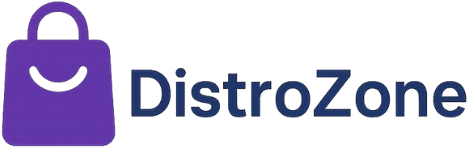
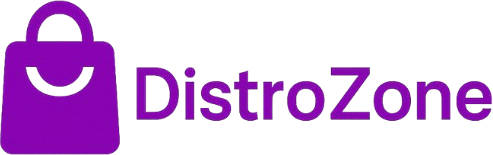
ganti warna produk page biar serasi dengan background putih

diff --git a/frontend/src/components/ui-toko/ProductCard.tsx b/frontend/src/components/ui-toko/ProductCard.tsx
@@ -30,13 +30,13 @@ const ProductCard: React.FC<{ product: Product }> = ({ product }) => {
   };
 
   return (
-    <div className="group relative bg-zinc-900 rounded-xl overflow-hidden border border-white/10 hover:border-orange-500/50 transition-all duration-300">
+    <div className="group relative bg-white rounded-xl overflow-hidden border border-gray-200 hover:border-orange-500 transition-all duration-300 shadow-sm hover:shadow-md">
       {/* Product Image */}
-      <div className="relative aspect-square bg-linear-to-br from-zinc-800 to-zinc-900 overflow-hidden">
+      <div className="relative aspect-square bg-gray-100 overflow-hidden">
         {/* Image Placeholder */}
         <div className="absolute inset-0 flex items-center justify-center">
           <div
-            className="absolute inset-0 opacity-10"
+            className="absolute inset-0 opacity-5"
             style={{
               backgroundImage: `repeating-linear-gradient(
                 45deg,
@@ -48,10 +48,10 @@ const ProductCard: React.FC<{ product: Product }> = ({ product }) => {
             }}
           />
           <div className="text-center z-10">
-            <div className="text-4xl font-black text-white/20 mb-2">
+            <div className="text-4xl font-black text-gray-300 mb-2">
               {product.nama.split(" ")[0]}
             </div>
-            <div className="text-xs text-gray-600">{product.gambar}</div>
+            <div className="text-xs text-gray-400">{product.gambar}</div>
           </div>
         </div>
 
@@ -67,7 +67,7 @@ const ProductCard: React.FC<{ product: Product }> = ({ product }) => {
         </div>
 
         {/* Product Name */}
-        <h3 className="text-white font-bold text-base mb-2 line-clamp-1">
+        <h3 className="text-gray-900 font-bold text-base mb-2 line-clamp-1">
           {product.nama}
         </h3>
 
@@ -77,7 +77,7 @@ const ProductCard: React.FC<{ product: Product }> = ({ product }) => {
             {product.colors.map((color, index) => (
               <button
                 key={index}
-                className="w-5 h-5 rounded-full border-2 border-white/20 hover:border-orange-500 transition-colors duration-200"
+                className="w-5 h-5 rounded-full border-2 border-gray-300 hover:border-orange-500 transition-colors duration-200"
                 style={{ backgroundColor: color }}
               />
             ))}
@@ -91,14 +91,14 @@ const ProductCard: React.FC<{ product: Product }> = ({ product }) => {
               {formatPrice(product.harga)}
             </div>
             {product.hargaOri && (
-              <div className="text-gray-600 text-xs line-through">
+              <div className="text-gray-400 text-xs line-through">
                 {formatPrice(product.hargaOri)}
               </div>
             )}
           </div>
 
           {product.hargaOri && (
-            <div className="bg-red-500/20 text-red-500 text-xs font-bold px-2 py-1 rounded">
+            <div className="bg-red-50 text-red-500 text-xs font-bold px-2 py-1 rounded">
               -
               {Math.round(
                 ((product.hargaOri - product.harga) / product.hargaOri) * 100
@@ -139,7 +139,7 @@ const ProductFilter: React.FC<{
     <>
       {/* Tipe */}
       <div className="mb-8">
-        <h3 className="text-white font-bold text-sm uppercase tracking-wider mb-4">
+        <h3 className="text-gray-900 font-bold text-sm uppercase tracking-wider mb-4">
           Tipe Kaos
         </h3>
         <div className="space-y-2">
@@ -152,9 +152,9 @@ const ProductFilter: React.FC<{
                 type="checkbox"
                 checked={filters.categories.includes(tipe)}
                 onChange={() => toggleTipe(tipe)}
-                className="w-5 h-5 rounded border-2 border-white/20 bg-transparent checked:bg-orange-500 checked:border-orange-500 transition-colors cursor-pointer"
+                className="w-5 h-5 rounded border-2 border-gray-300 bg-white checked:bg-orange-500 checked:border-orange-500 transition-colors cursor-pointer"
               />
-              <span className="text-gray-400 group-hover:text-white transition-colors text-sm">
+              <span className="text-gray-600 group-hover:text-gray-900 transition-colors text-sm">
                 {tipe}
               </span>
             </label>
@@ -164,7 +164,7 @@ const ProductFilter: React.FC<{
 
       {/* Price Range */}
       <div>
-        <h3 className="text-white font-bold text-sm uppercase tracking-wider mb-4">
+        <h3 className="text-gray-900 font-bold text-sm uppercase tracking-wider mb-4">
           Harga
         </h3>
         <div className="space-y-2">
@@ -180,9 +180,9 @@ const ProductFilter: React.FC<{
                 onChange={() =>
                   onFilterChange({ ...filters, priceRange: range.value })
                 }
-                className="w-5 h-5 border-2 border-white/20 bg-transparent checked:border-orange-500 transition-colors cursor-pointer"
+                className="w-5 h-5 border-2 border-gray-300 bg-white checked:border-orange-500 transition-colors cursor-pointer"
               />
-              <span className="text-gray-400 group-hover:text-white transition-colors text-sm">
+              <span className="text-gray-600 group-hover:text-gray-900 transition-colors text-sm">
                 {range.label}
               </span>
             </label>
@@ -193,7 +193,7 @@ const ProductFilter: React.FC<{
       {/* Reset Button */}
       <button
         onClick={() => onFilterChange({ categories: [], priceRange: "all" })}
-        className="mt-8 w-full bg-white/5 hover:bg-white/10 border border-white/20 text-white font-bold py-3 rounded-lg transition-colors duration-200"
+        className="mt-8 w-full bg-gray-100 hover:bg-gray-200 border border-gray-300 text-gray-900 font-bold py-3 rounded-lg transition-colors duration-200"
       >
         Reset Filter
       </button>
@@ -204,18 +204,18 @@ const ProductFilter: React.FC<{
     return (
       <div className="fixed inset-0 z-50 lg:hidden">
         <div
-          className="absolute inset-0 bg-black/80 backdrop-blur-sm"
+          className="absolute inset-0 bg-black/50 backdrop-blur-sm"
           onClick={onClose}
         />
-        <div className="absolute right-0 top-0 bottom-0 w-80 max-w-full bg-zinc-900 shadow-xl overflow-y-auto">
+        <div className="absolute right-0 top-0 bottom-0 w-80 max-w-full bg-white shadow-xl overflow-y-auto">
           <div className="p-6">
             <div className="flex items-center justify-between mb-6">
-              <h2 className="text-xl font-black text-white">FILTER</h2>
+              <h2 className="text-xl font-black text-gray-900">FILTER</h2>
               <button
                 onClick={onClose}
-                className="w-10 h-10 flex items-center justify-center hover:bg-white/10 rounded-lg transition-colors"
+                className="w-10 h-10 flex items-center justify-center hover:bg-gray-100 rounded-lg transition-colors"
               >
-                <MdClose className="w-6 h-6 text-white" />
+                <MdClose className="w-6 h-6 text-gray-900" />
               </button>
             </div>
             {FilterContent}
@@ -226,8 +226,8 @@ const ProductFilter: React.FC<{
   }
 
   return (
-    <div className="hidden lg:block bg-zinc-900 rounded-xl border border-white/10 p-6 sticky top-34">
-      <h2 className="text-xl font-black text-white mb-6">FILTER</h2>
+    <div className="hidden lg:block bg-white rounded-xl border border-gray-200 p-6 sticky top-34 shadow-sm">
+      <h2 className="text-xl font-black text-gray-900 mb-6">FILTER</h2>
       {FilterContent}
     </div>
   );
@@ -254,7 +254,7 @@ const ProductSort: React.FC<{
     <div className="relative">
       <button
         onClick={() => setIsOpen(!isOpen)}
-        className="flex items-center space-x-2 bg-zinc-900 border border-white/10 hover:border-orange-500/50 px-4 py-2.5 rounded-lg transition-colors duration-200 text-sm font-medium text-white"
+        className="flex items-center space-x-2 bg-white border border-gray-300 hover:border-orange-500 px-4 py-2.5 rounded-lg transition-colors duration-200 text-sm font-medium text-gray-900"
       >
         <span>{selectedLabel}</span>
         <FaChevronDown
@@ -270,7 +270,7 @@ const ProductSort: React.FC<{
             className="fixed inset-0 z-10"
             onClick={() => setIsOpen(false)}
           />
-          <div className="absolute right-0 mt-2 w-48 bg-zinc-900 border border-white/10 rounded-lg shadow-xl overflow-hidden z-20">
+          <div className="absolute right-0 mt-2 w-48 bg-white border border-gray-200 rounded-lg shadow-xl overflow-hidden z-20">
             {sortOptions.map((option) => (
               <button
                 key={option.value}
@@ -281,10 +281,10 @@ const ProductSort: React.FC<{
                 className={`w-full text-left px-4 py-3 text-sm transition-colors ${
                   value === option.value
                     ? "bg-orange-500 text-white"
-                    : "text-gray-400 hover:bg-white/5 hover:text-white"
+                    : "text-gray-600 hover:bg-gray-100 hover:text-gray-900"
                 }`}
               >
-                {option.label}
+                {option.value}
               </button>
             ))}
           </div>
@@ -341,7 +341,7 @@ const Pagination: React.FC<{
       <button
         onClick={() => onPageChange(currentPage - 1)}
         disabled={currentPage === 1}
-        className="w-10 h-10 flex items-center justify-center bg-zinc-900 border border-white/10 hover:border-orange-500 disabled:opacity-50 disabled:cursor-not-allowed rounded-lg transition-colors text-white"
+        className="w-10 h-10 flex items-center justify-center bg-white border border-gray-300 hover:border-orange-500 disabled:opacity-50 disabled:cursor-not-allowed rounded-lg transition-colors text-gray-900"
       >
         ‹
       </button>
@@ -354,13 +354,13 @@ const Pagination: React.FC<{
             className={`w-10 h-10 flex items-center justify-center rounded-lg font-bold text-sm transition-colors ${
               currentPage === page
                 ? "bg-orange-500 text-white"
-                : "bg-zinc-900 border border-white/10 hover:border-orange-500 text-gray-400"
+                : "bg-white border border-gray-300 hover:border-orange-500 text-gray-600"
             }`}
           >
             {page}
           </button>
         ) : (
-          <span key={index} className="text-gray-600 px-2">
+          <span key={index} className="text-gray-400 px-2">
             {page}
           </span>
         )
@@ -369,7 +369,7 @@ const Pagination: React.FC<{
       <button
         onClick={() => onPageChange(currentPage + 1)}
         disabled={currentPage === totalPages}
-        className="w-10 h-10 flex items-center justify-center bg-zinc-900 border border-white/10 hover:border-orange-500 disabled:opacity-50 disabled:cursor-not-allowed rounded-lg transition-colors text-white"
+        className="w-10 h-10 flex items-center justify-center bg-white border border-gray-300 hover:border-orange-500 disabled:opacity-50 disabled:cursor-not-allowed rounded-lg transition-colors text-gray-900"
       >
         ›
       </button>
@@ -579,12 +579,12 @@ const ProductsPage: React.FC = () => {
   );
 
   return (
-    <div className="min-h-screen">
+    <div className="min-h-screen bg-gray-50">
       {/* Navbar */}
       <Navbar />
 
       {/* Page Content */}
-      <div className="max-w-7xl bg-white mx-auto px-4 sm:px-6 lg:px-8 py-8 pt-16">
+      <div className="max-w-7xl bg-white mx-auto px-4 sm:px-6 lg:px-8 py-8 lg:pt-16">
         <div className="flex flex-col lg:flex-row gap-8">
           {/* Sidebar Filter - Desktop */}
           <aside className="lg:w-64 shrink-0">
@@ -597,7 +597,7 @@ const ProductsPage: React.FC = () => {
             <div className="flex items-center justify-between mb-6">
               {/* Header */}
               <div>
-                <p className="text-gray-400">
+                <p className="text-gray-600">
                   Menampilkan {paginatedProducts.length} dari{" "}
                   {sortedProducts.length} produk
                 </p>
@@ -606,7 +606,7 @@ const ProductsPage: React.FC = () => {
               {/* Mobile Filter Button */}
               <button
                 onClick={() => setIsMobileFilterOpen(true)}
-                className="lg:hidden flex items-center space-x-2 bg-zinc-900 border border-white/10 hover:border-orange-500/50 px-4 py-2.5 rounded-lg transition-colors duration-200 text-sm font-medium text-white"
+                className="lg:hidden flex items-center space-x-2 bg-white border border-gray-300 hover:border-orange-500 px-4 py-2.5 rounded-lg transition-colors duration-200 text-sm font-medium text-gray-900"
               >
                 <FaFilter className="w-4 h-4" />
                 <span>Filter</span>

diff --git a/frontend/src/components/ui-toko/Navigation.tsx b/frontend/src/components/ui-toko/Navigation.tsx
@@ -127,7 +127,7 @@ export default function Navigation() {
             <div className="flex items-center">
               <a href="/">
                 <img
-                  src="/images/new-logo.png"
+                  src="/images/distro-zone.png"
                   alt="DistroZone"
                   className="w-46 h-14"
                 />
@@ -204,14 +204,14 @@ export default function Navigation() {
       {/* Mobile Navigation (md ke bawah) */}
       <div className="md:hidden">
         {/* Top Fixed Bar */}
-        <div className="fixed top-0 left-0 right-0 bg-white text-gray-800 px-2 py-3 z-50 shadow-sm">
+        <div className="fixed top-0 left-0 right-0 bg-white text-gray-800 px-2 py-3 z-50">
           <div className="flex items-center justify-between gap-2">
             {/* Logo */}
             <div className="shrink-0">
               <a href="/">
                 <img
-                  src="/images/no-teks-logo.png"
-                  alt="Goshop"
+                  src="/images/distro-zone-bag.png"
+                  alt="DistroZone"
                   className="w-10 h-10"
                 />
               </a>

diff --git a/frontend/src/components/ui-toko/Carousel.tsx b/frontend/src/components/ui-toko/Carousel.tsx
@@ -70,7 +70,7 @@ export default function Carousel() {
   };
 
   return (
-    <div className="relative bg-white w-full mx-auto px-4 sm:px-6 pt-20">
+    <div className="relative bg-white w-full mx-auto px-4 sm:px-6 pt-6 lg:pt-24">
       <div className="relative overflow-hidden rounded-2xl shadow-2xl">
         {/* Slides Container */}
         <div
